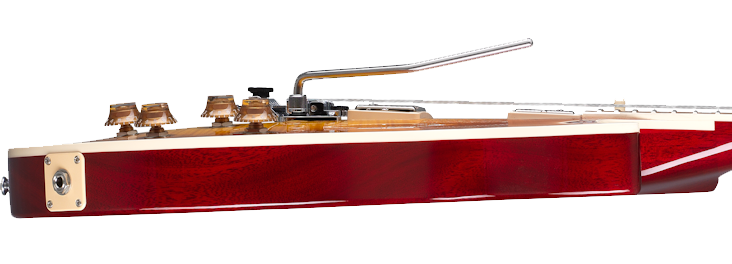
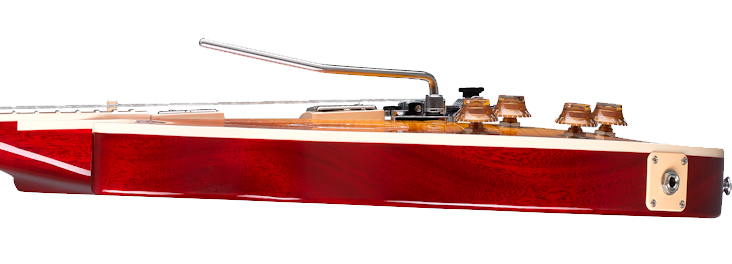
Added animations to the images of the main section, they work with the scroll

diff --git a/mainScript.js b/mainScript.js
@@ -4,6 +4,9 @@ var ventanaGrande = window.matchMedia("(min-width: 1300px)");
 var leftSlider = document.querySelector('.left__btn');
 var rightSlider = document.querySelector('.right__btn');
 var guitarTape = document.querySelector('.instruments__tape');
+var mastil = document.querySelector('.characteristics__one');
+var body = document.querySelector('.characteristics__two');
+var palanca = document.querySelector('.characteristics__three');
 var draw = setInterval(draw, 17);
 var contador = 0;
 
@@ -49,7 +52,8 @@ leftSlider.addEventListener("click", function () {
 });
 
 function draw() {
-    console.log(contador);
+    console.log(pageYOffset);
+
     if (ventanaGrande.matches) {
         contador = 0;
         guitarTape.style.left = '0%';
@@ -67,6 +71,149 @@ function draw() {
         }
 
     }
+
+
+    //iinteraction of hot of the month with the scroll
+
+    if (ventanaGrande.matches) {
+        //mastil
+        if (pageYOffset < 1600) {
+            mastil.style.transition = 'margin-left .5s ease-out';
+            mastil.style.marginLeft = '-1200px';
+        }
+        if (pageYOffset > 1600 && pageYOffset < 2254) {
+            mastil.style.transition = 'margin-left 1s ease-out';
+            mastil.style.marginLeft = '-20px';
+        }
+        if (pageYOffset > 2400) {
+            body.style.transition = 'margin-left .5s ease-out';
+            mastil.style.marginLeft = '-1200px';
+        }
+        //body
+
+
+        if (pageYOffset < 2091) {
+            body.style.transition = 'margin-left .5s ease-out';
+            body.style.marginLeft = '2200px';
+        }
+        if (pageYOffset > 2091 && pageYOffset < 2890) {
+            body.style.transition = 'margin-left 1s ease-out';
+            body.style.marginLeft = '44%';
+        }
+        if (pageYOffset > 2890) {
+            body.style.transition = 'margin-left .5s ease-out';
+            body.style.marginLeft = '2200px';
+        }
+
+        //palanca
+        if (pageYOffset < 2570) {
+            palanca.style.transition = 'margin-left .5s ease-out';
+            palanca.style.marginLeft = '-1200px';
+        }
+        if (pageYOffset > 2570 && pageYOffset < 3254) {
+            palanca.style.transition = 'margin-left 1s ease-out';
+            palanca.style.marginLeft = '-20px';
+        }
+        if (pageYOffset > 3200) {
+            body.style.transition = 'margin-left .5s ease-out';
+            palanca.style.marginLeft = '-1200px';
+        }
+
+    } else if (ventanaMediana.matches) {
+
+        //mastil
+        if (pageYOffset < 1588) {
+            mastil.style.transition = 'margin-left .5s ease-out';
+            mastil.style.marginLeft = '-1200px';
+        }
+        if (pageYOffset > 1588 && pageYOffset < 2277) {
+            mastil.style.transition = 'margin-left 1s ease-out';
+            mastil.style.marginLeft = '-20px';
+        }
+        if (pageYOffset > 2277) {
+            body.style.transition = 'margin-left .5s ease-out';
+            mastil.style.marginLeft = '-1200px';
+        }
+
+        //body
+
+
+        if (pageYOffset < 2029) {
+            body.style.transition = 'margin-left .5s ease-out';
+            body.style.marginLeft = '2200px';
+        }
+        if (pageYOffset > 2029 && pageYOffset < 2729) {
+            body.style.transition = 'margin-left 1s ease-out';
+            body.style.marginLeft = '44%';
+        }
+        if (pageYOffset > 2729) {
+            body.style.transition = 'margin-left .5s ease-out';
+            body.style.marginLeft = '2200px';
+        }
+
+        //palanca
+        if (pageYOffset < 2329) {
+            palanca.style.transition = 'margin-left .5s ease-out';
+            palanca.style.marginLeft = '-1200px';
+        }
+        if (pageYOffset > 2339 && pageYOffset < 2929) {
+            palanca.style.transition = 'margin-left 1s ease-out';
+            palanca.style.marginLeft = '-20px';
+        }
+        if (pageYOffset > 2929) {
+            palanca.style.transition = 'margin-left .5s ease-out';
+            palanca.style.marginLeft = '-1200px';
+        }
+
+    } else if (ventanaPequena.matches) {
+
+        //mastil
+        if (pageYOffset < 1264) {
+            mastil.style.transition = 'margin-left .5s ease-out';
+            mastil.style.marginLeft = '-1200px';
+        }
+        if (pageYOffset > 1264 && pageYOffset < 1859) {
+            mastil.style.transition = 'margin-left 1s ease-out';
+            mastil.style.marginLeft = '-20px';
+        }
+        if (pageYOffset > 1859) {
+            mastil.style.transition = 'margin-left .5s ease-out';
+            mastil.style.marginLeft = '-1200px';
+        }
+
+        //body
+
+
+        if (pageYOffset < 1360) {
+            body.style.transition = 'margin-left .5s ease-out';
+            body.style.marginLeft = '2200px';
+        }
+        if (pageYOffset > 1360 && pageYOffset < 2107) {
+            body.style.transition = 'margin-left 1s ease-out';
+            body.style.marginLeft = '44%';
+        }
+        if (pageYOffset > 2107) {
+            body.style.transition = 'margin-left .5s ease-out';
+            body.style.marginLeft = '2200px';
+        }
+
+        //palanca
+        if (pageYOffset < 1761) {
+            palanca.style.transition = 'margin-left .5s ease-out';
+            palanca.style.marginLeft = '-1200px';
+        }
+        if (pageYOffset > 1761 && pageYOffset < 2429) {
+            palanca.style.transition = 'margin-left 1s ease-out';
+            palanca.style.marginLeft = '-20px';
+        }
+        if (pageYOffset > 2429) {
+            palanca.style.marginLeft = '-1200px';
+        }
+
+    }
+
+
+
 
 
 }

diff --git a/main.css b/main.css
@@ -1,4 +1,7 @@
 .main {
+    box-shadow: 0 0 0 6px #F25252;
+    overflow-x: hidden;
+    overflow-y: hidden;
     margin-top: -10px;
     background-color: black;
     height: 3000px;
@@ -7,10 +10,10 @@
 }
 
 .new__products {
-    overflow-x: hidden;
+
     background-color: white;
     height: 20%;
-    box-shadow: 0 0 0 6px #F25252;
+
 
 }
 
@@ -141,26 +144,38 @@
 }
 
 .characteristics {
-    top: 300px;
+    box-shadow: 0 0 0 15px rgb(255, 126, 5);
+    background-color: white;
+    top: 150px;
     position: relative;
     display: flexbox;
     width: 100%;
+    height:5000px;
+   
 
 }
 
 .characteristics__one {
+   
+    padding-top: 2vw;
+    margin-left: -60%;
     display: flex;
-    width: 50%;
+    width: 60%;
+   
 }
 
 .characteristics__two {
+    padding-top: 2vw;
     display: flex;
-    width: 50%;
+    margin-left: 100%;
+    width: 60%;
 }
 
 .characteristics__three {
+    padding-top: 2vw;
     display: flex;
-    width: 50%;
+    width: 65%;
+    margin-left: -70%;
 }
 
 
@@ -206,6 +221,12 @@
         height: 220px;
     }
 
+    .characteristics__one { 
+                
+        width: 60%;
+    }
+    
+
 }
 
 
@@ -243,9 +264,13 @@
 
     .hot__reference {
         margin-top: 30px;
-        font-size: 90px;
-        line-height: 60px;
+        font-size: 70px;
+        line-height: 40px;
         height: 150px;
+    }
+    .characteristics__one { 
+                
+        width: 65%;
     }
 
 

diff --git a/index.html b/index.html
@@ -171,6 +171,7 @@
 
 
                 <div class="characteristics">
+                    <h2 class="new__title"><span>SPECS</span></h2>
                     <img src="./data/mastil.png" class="characteristics__one">
                     <img src="./data/body.png" class="characteristics__two">
                     <img src="./data/palanca.png" class="characteristics__three">

diff --git a/mainCoverScript.js b/mainCoverScript.js
@@ -40,7 +40,7 @@ function hiloCoverSlideShow() {
 
 
 function draw() {
-    console.log(pageYOffset);
+   
 
     mainCover.style.backgroundPositionX = fondoX + '%';
 
